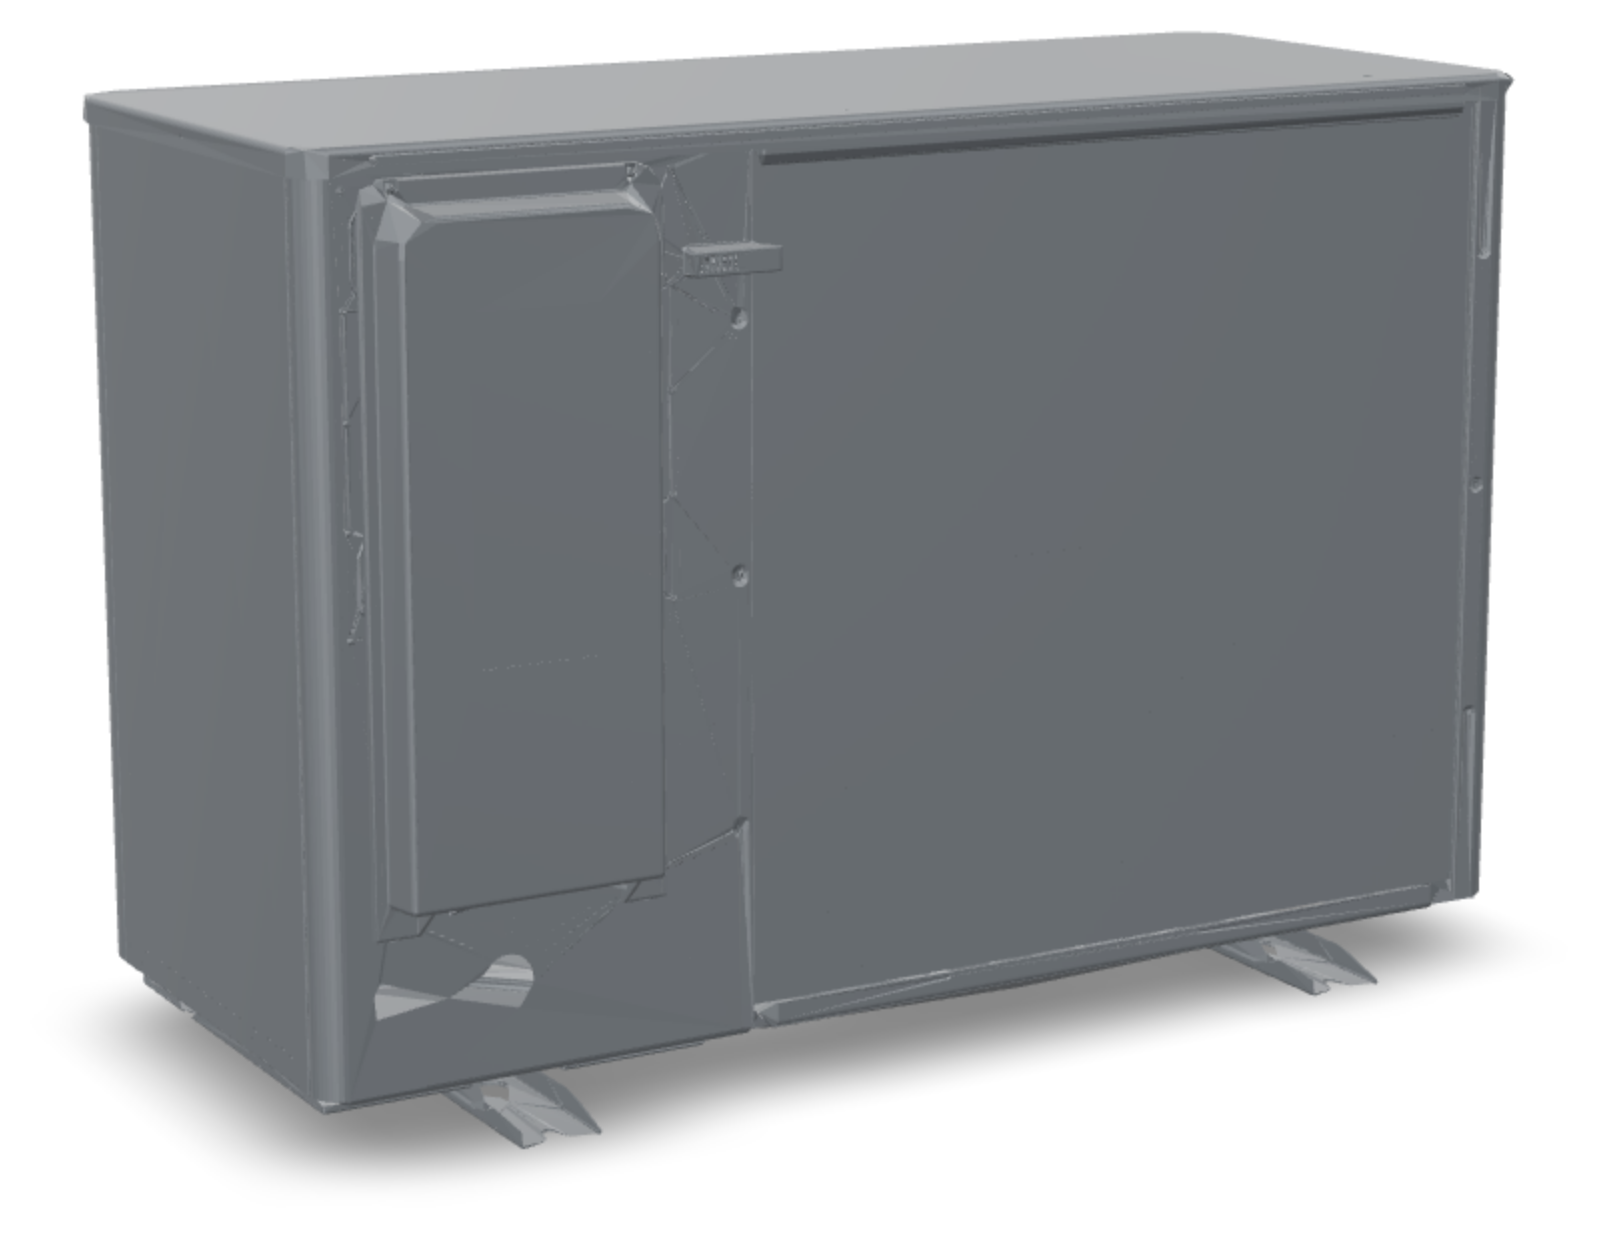
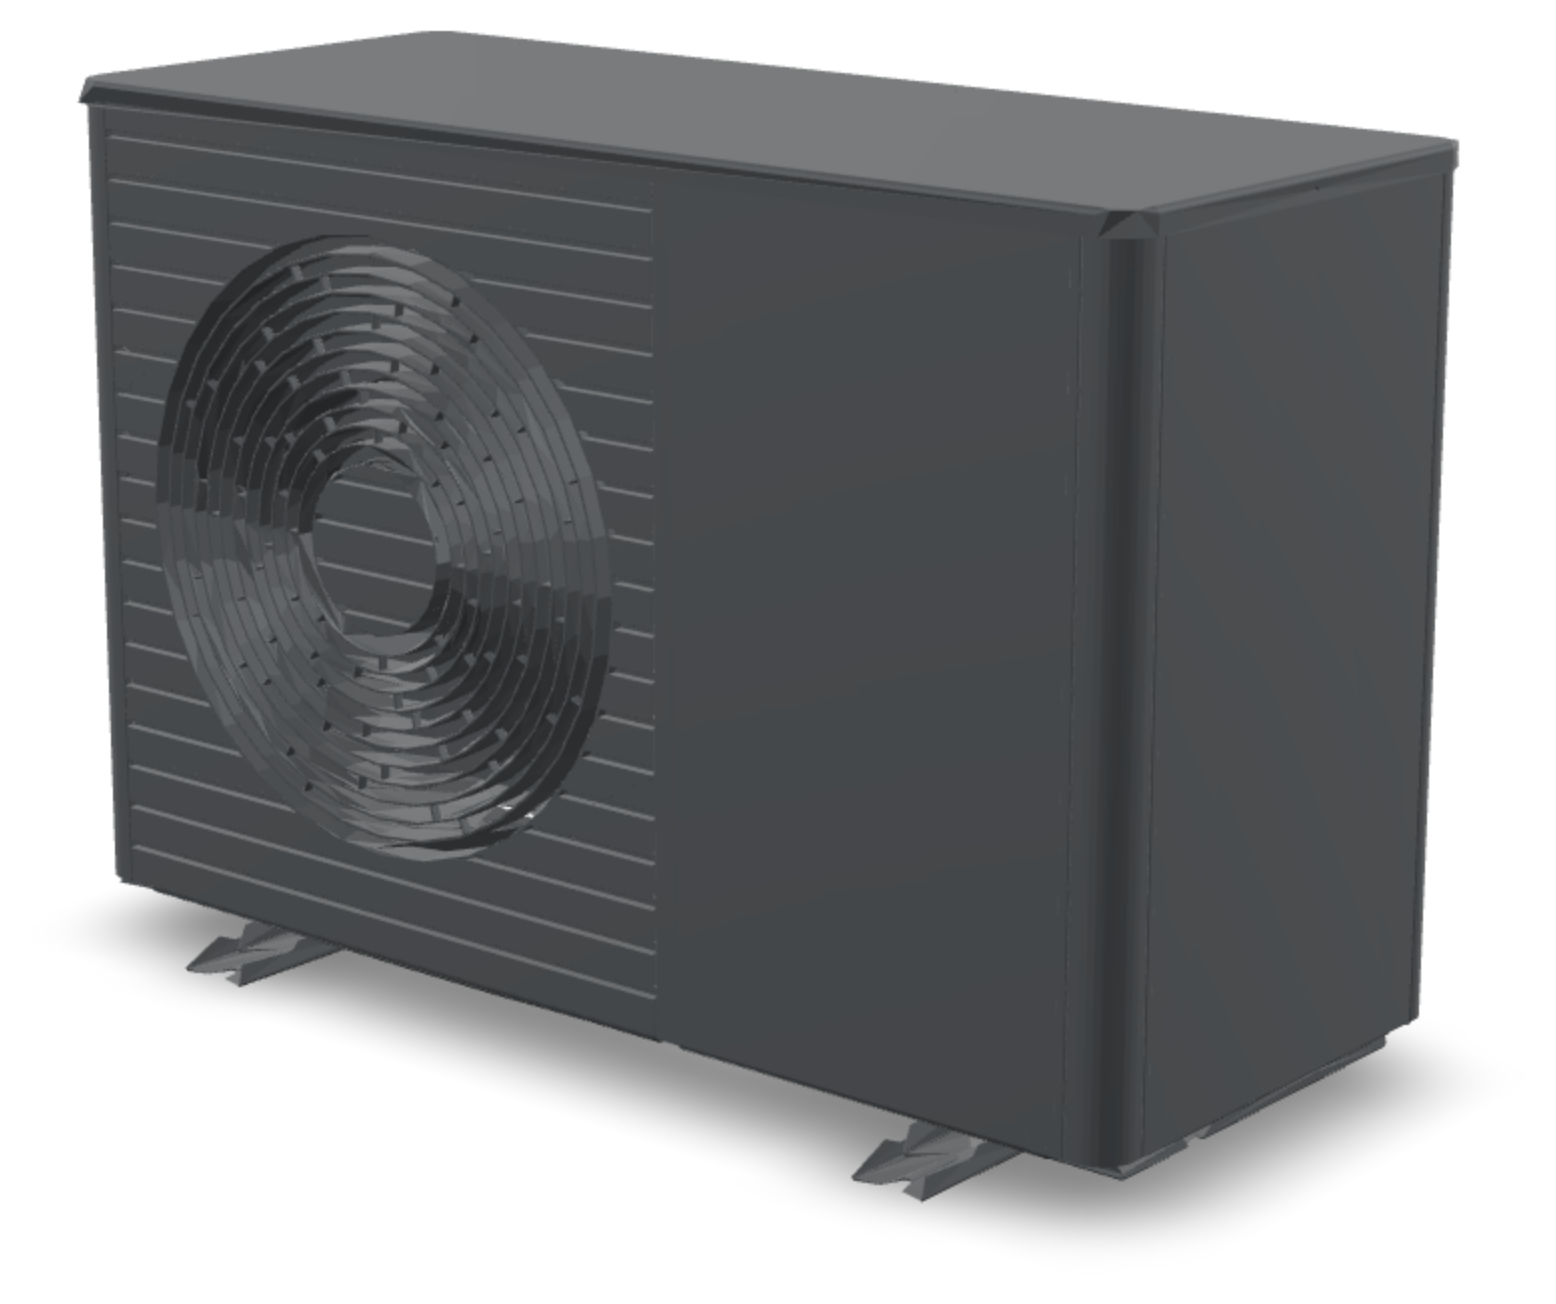
Fix product color/orientation, redesign AR placement flow
- Matched real Vaillant anthracite colouring (RAL 7021 reference) and
  re-rendered from the correct front-facing angle (grille visible),
  confirmed against an official product photo
- Removed two-finger rotate; pinch now only scales
- Replaced ambiguous tap-anywhere placement with an explicit reticle
  and "Place product here" button, plus yellow feature-point dots
  during the scanning phase (mimicking ARCore/ARKit point clouds)
- Object now drops onto a fixed floor line with a grow-then-settle
  animation, and can only be dragged horizontally afterward
- Floor mount is now the default mount option

diff --git a/app.js b/app.js
@@ -16,7 +16,7 @@ const products = [
     image: SHARED_IMAGE,
     model: SHARED_MODEL,
     hasNoise: true,
-    mounts: ["Wall mount", "Ground mount"],
+    mounts: ["Floor mount", "Wall mount"],
     variants: [
       { label: "3/5 kW", lwa: 55 },
       { label: "7 kW", lwa: 58 },
@@ -34,7 +34,7 @@ const products = [
     image: SHARED_IMAGE,
     model: SHARED_MODEL,
     hasNoise: true,
-    mounts: ["Wall mount", "Ground mount"],
+    mounts: ["Floor mount", "Wall mount"],
     variants: [
       { label: "6 kW", lwa: 57 },
       { label: "12 kW", lwa: 60 },
@@ -266,18 +266,22 @@ const scaleBadge = $("#scaleBadge");
 const mvViewer = $("#mvViewer");
 let mvModeActive = false;
 const dbReadout = $("#dbReadout");
+const scanDots = $("#scanDots");
+const arReticleWrap = $("#arReticleWrap");
+const placeDropBtn = $("#placeDropBtn");
 
 let mediaStream = null;
 let objectPlaced = false;
 let objX = 0;
-let objY = 0;
+let objY = 0; // fixed to the floor line once placed - the object never moves vertically
 let objScale = 1;
-let objRotation = 0;
 const BASE_DISTANCE_M = 2; // metres represented by scale = 1 (100%)
+const FLOOR_Y_RATIO = 0.64; // where the "floor" line sits, as a fraction of viewport height
 
 const pointers = new Map();
-let dragBaseline = null; // {startPointerX, startPointerY, startObjX, startObjY}
-let pinchBaseline = null; // {startDist, startAngle, startScale, startRotation}
+let dragBaseline = null; // {startPointerX, startObjX}
+let pinchBaseline = null; // {startDist, startScale}
+let scanTimer = null;
 
 let hintTimers = [];
 function clearHints() {
@@ -288,11 +292,7 @@ function clearHints() {
 
 function playGestureHints() {
   clearHints();
-  const sequence = [
-    "Drag your finger to move the object",
-    "Pinch to scale the product",
-    "Drag with two fingers to rotate the object"
-  ];
+  const sequence = ["Drag left or right to move it", "Pinch to scale the product"];
   let delay = 300;
   sequence.forEach((text, i) => {
     hintTimers.push(
@@ -309,7 +309,7 @@ function playGestureHints() {
 function applyObjectTransform() {
   arObject.style.left = `${objX}px`;
   arObject.style.top = `${objY}px`;
-  arObject.style.transform = `translate(-50%, -50%) scale(${objScale}) rotate(${objRotation}deg)`;
+  arObject.style.transform = `translate(-50%, -100%) scale(${objScale})`;
 }
 
 function currentDistanceM() {
@@ -340,6 +340,8 @@ function showScaleBadge() {
 }
 
 function resetGestureState() {
+  clearTimeout(scanTimer);
+  clearTimeout(dropObjectAtFloor._t);
   pointers.clear();
   dragBaseline = null;
   pinchBaseline = null;
@@ -347,74 +349,101 @@ function resetGestureState() {
   objX = 0;
   objY = 0;
   objScale = 1;
-  objRotation = 0;
-  arObject.classList.remove("placed");
+  arObject.classList.remove("placed", "dropping");
+  arReticleWrap.classList.remove("show");
+  placeDropBtn.classList.remove("show");
+  scanDots.innerHTML = "";
 }
 
-function clampObjectPosition() {
+function clampObjectX() {
   const rect = arViewport.getBoundingClientRect();
   const margin = 40; // keep at least this much of the object reachable/visible
   objX = Math.min(Math.max(objX, margin), Math.max(rect.width - margin, margin));
-  objY = Math.min(Math.max(objY, margin), Math.max(rect.height - margin, margin));
 }
 
-function placeObjectAt(x, y) {
-  objX = x;
-  objY = y;
-  objScale = 1;
-  objRotation = 0;
-  objectPlaced = true;
-  arObject.classList.add("placed");
+function spawnScanDots() {
+  scanDots.innerHTML = "";
+  const rect = arViewport.getBoundingClientRect();
+  const count = 22;
+  for (let i = 0; i < count; i++) {
+    const dot = document.createElement("span");
+    dot.className = "scan-dot";
+    dot.style.left = `${8 + Math.random() * 84}%`;
+    dot.style.top = `${18 + Math.random() * 64}%`;
+    dot.style.animationDelay = `${Math.random() * 1.8}s`;
+    scanDots.appendChild(dot);
+  }
+}
+
+function beginScanning() {
+  clearTimeout(scanTimer);
+  arScanHint.style.display = "flex";
+  arReticleWrap.classList.remove("show");
+  placeDropBtn.classList.remove("show");
+  spawnScanDots();
+  scanTimer = setTimeout(showReadyToPlace, 2200);
+}
+
+function showReadyToPlace() {
   arScanHint.style.display = "none";
-  applyObjectTransform();
-  playGestureHints();
-
-  // allow placing and immediately dragging in one continuous touch
-  dragBaseline = { start: { x, y }, objX, objY };
+  scanDots.innerHTML = "";
+  const rect = arViewport.getBoundingClientRect();
+  const floorY = rect.height * FLOOR_Y_RATIO;
+  arReticleWrap.style.top = `${floorY}px`;
+  arReticleWrap.classList.add("show");
+  placeDropBtn.classList.add("show");
 }
+
+function dropObjectAtFloor() {
+  const rect = arViewport.getBoundingClientRect();
+  arReticleWrap.classList.remove("show");
+  placeDropBtn.classList.remove("show");
+
+  objX = rect.width / 2;
+  objY = rect.height * FLOOR_Y_RATIO;
+  objScale = 2.1; // appear large first...
+  arObject.classList.remove("dropping");
+  arObject.classList.add("placed");
+  applyObjectTransform();
+
+  // ...then settle down to normal size, like showPOINT's placement animation
+  requestAnimationFrame(() => {
+    arObject.classList.add("dropping");
+    objScale = 1;
+    applyObjectTransform();
+  });
+
+  clearTimeout(dropObjectAtFloor._t);
+  dropObjectAtFloor._t = setTimeout(() => {
+    arObject.classList.remove("dropping");
+    objectPlaced = true;
+    dragBaseline = { startX: objX, objX };
+    playGestureHints();
+  }, 600);
+}
+
+placeDropBtn.addEventListener("click", dropObjectAtFloor);
 
 function pointDistance(a, b) {
   return Math.hypot(a.x - b.x, a.y - b.y);
 }
-function pointAngle(a, b) {
-  return (Math.atan2(b.y - a.y, b.x - a.x) * 180) / Math.PI;
-}
-
-// Safety net: on some browsers pointerdown-based placement can be swallowed
-// (e.g. iOS Safari text-selection/callout gestures). A plain click always
-// fires for a genuine tap, and placeObjectAt() is a no-op if already placed.
-arViewport.addEventListener("click", (e) => {
-  if (mvModeActive || objectPlaced) return;
-  if (e.target.closest("button, .ar-bottom, .ar-topbar, .db-readout")) return;
-  const rect = arViewport.getBoundingClientRect();
-  placeObjectAt(e.clientX - rect.left, e.clientY - rect.top);
-});
 
 arViewport.addEventListener("pointerdown", (e) => {
-  if (mvModeActive) return; // model-viewer owns gestures for real 3D models
+  if (mvModeActive || !objectPlaced) return; // placement is via the explicit button only
   if (e.target.closest("button, .ar-bottom, .ar-topbar, .db-readout")) return;
   arViewport.setPointerCapture(e.pointerId);
   const rect = arViewport.getBoundingClientRect();
   const point = { x: e.clientX - rect.left, y: e.clientY - rect.top };
-
-  if (!objectPlaced) {
-    placeObjectAt(point.x, point.y);
-    pointers.set(e.pointerId, point);
-    return;
-  }
-
   pointers.set(e.pointerId, point);
 
   if (pointers.size === 1) {
-    dragBaseline = { start: { ...point }, objX, objY };
+    dragBaseline = { startX: point.x, objX };
     pinchBaseline = null;
   } else if (pointers.size === 2) {
     const pts = Array.from(pointers.values());
     pinchBaseline = {
       dist: pointDistance(pts[0], pts[1]),
-      angle: pointAngle(pts[0], pts[1]),
-      scale: objScale,
-      rotation: objRotation
+      scale: objScale
     };
     dragBaseline = null;
   }
@@ -427,16 +456,13 @@ arViewport.addEventListener("pointermove", (e) => {
   pointers.set(e.pointerId, point);
 
   if (pointers.size === 1 && dragBaseline) {
-    objX = dragBaseline.objX + (point.x - dragBaseline.start.x);
-    objY = dragBaseline.objY + (point.y - dragBaseline.start.y);
-    clampObjectPosition();
+    objX = dragBaseline.objX + (point.x - dragBaseline.startX);
+    clampObjectX();
     applyObjectTransform();
   } else if (pointers.size === 2 && pinchBaseline) {
     const pts = Array.from(pointers.values());
     const dist = pointDistance(pts[0], pts[1]);
-    const angle = pointAngle(pts[0], pts[1]);
     objScale = Math.min(2.5, Math.max(0.4, pinchBaseline.scale * (dist / pinchBaseline.dist)));
-    objRotation = pinchBaseline.rotation + (angle - pinchBaseline.angle);
     applyObjectTransform();
     showScaleBadge();
     updateDbReadoutIfVisible();
@@ -447,7 +473,7 @@ function releasePointer(e) {
   pointers.delete(e.pointerId);
   if (pointers.size === 1) {
     const [remaining] = pointers.values();
-    dragBaseline = { start: { ...remaining }, objX, objY };
+    dragBaseline = { startX: remaining.x, objX };
     pinchBaseline = null;
   } else if (pointers.size === 0) {
     dragBaseline = null;
@@ -523,9 +549,9 @@ function enterFlatMode(product) {
   resetGestureState();
   arObjectImage.src = product.image;
   arObjectImage.alt = product.name;
-  arScanHint.style.display = "flex";
   clearHints();
   startCamera();
+  beginScanning();
 }
 
 function enterMvMode(product) {
@@ -681,9 +707,8 @@ $("#captureFab").addEventListener("click", () => {
     const h = w * (img.naturalHeight / img.naturalWidth || 1);
     ctx.save();
     ctx.translate(objX, objY);
-    ctx.rotate((objRotation * Math.PI) / 180);
     ctx.scale(objScale, objScale);
-    ctx.drawImage(img, -w / 2, -h / 2, w, h);
+    ctx.drawImage(img, -w / 2, -h, w, h);
     ctx.restore();
   }
 
@@ -709,8 +734,7 @@ function openMcsModal({ lwa, distance }) {
   $("#mcsDistance").value = distance;
   $("#mcsUnits").value = 1;
   $("#mcsThreshold").value = MCS020_DEFAULT_THRESHOLD;
-  const mountName = (state.activeProduct.mounts[state.activeMountIndex] || "").toLowerCase();
-  $("#mcsDirectivity").value = mountName.includes("ground") ? "4" : "2";
+  $("#mcsDirectivity").value = "2"; // free-standing default; user can switch to corner-mounted (Q=4)
   $("#mcsResult").classList.remove("show");
   mcsModal.classList.add("show");
 }

diff --git a/styles.css b/styles.css
@@ -482,13 +482,33 @@ h1, h2, h3, p {
   top: 50%;
   left: 50%;
   width: 46%;
-  transform: translate(-50%, -50%) scale(1) rotate(0deg);
-  transform-origin: center center;
+  transform: translate(-50%, -100%) scale(1);
+  transform-origin: 50% 100%;
   display: none;
   filter: drop-shadow(0 30px 26px rgba(0, 0, 0, 0.5));
 }
 .ar-object.placed { display: block; }
+.ar-object.dropping { transition: transform 550ms cubic-bezier(0.34, 1.56, 0.64, 1); }
 .ar-object img { width: 100%; pointer-events: none; }
+
+.scan-dots {
+  position: absolute;
+  inset: 0;
+  pointer-events: none;
+}
+.scan-dot {
+  position: absolute;
+  width: 6px;
+  height: 6px;
+  border-radius: 50%;
+  background: #ffd23f;
+  box-shadow: 0 0 6px 1px rgba(255, 210, 63, 0.7);
+  animation: dotTwinkle 1.8s ease-in-out infinite;
+}
+@keyframes dotTwinkle {
+  0%, 100% { opacity: 0; transform: scale(0.6); }
+  40%, 70% { opacity: 1; transform: scale(1); }
+}
 
 .ar-scan-hint {
   position: absolute;
@@ -523,6 +543,41 @@ h1, h2, h3, p {
 .ar-scan-hint p { font-weight: 600; }
 .ar-scan-hint .scan-subtext { font-weight: 500; font-size: 0.82rem; opacity: 0.85; margin-top: -8px; }
 
+.ar-reticle-wrap {
+  position: absolute;
+  top: 50%;
+  left: 50%;
+  transform: translate(-50%, -50%);
+  display: none;
+}
+.ar-reticle-wrap.show { display: block; }
+.ar-reticle {
+  display: block;
+  width: 84px;
+  height: 84px;
+  border: 3px solid #fff;
+  border-radius: 50%;
+  box-shadow: 0 0 0 4px rgba(0, 0, 0, 0.25);
+  animation: reticlePulse 1.6s ease-in-out infinite;
+}
+@keyframes reticlePulse {
+  0%, 100% { transform: scale(1); opacity: 0.95; }
+  50% { transform: scale(1.12); opacity: 0.6; }
+}
+
+.place-drop-btn {
+  position: absolute;
+  left: 50%;
+  bottom: 40px;
+  transform: translateX(-50%);
+  display: none;
+  align-items: center;
+  gap: 8px;
+  white-space: nowrap;
+  z-index: 4;
+}
+.place-drop-btn.show { display: flex; }
+
 .ar-gesture-hint {
   position: absolute;
   left: 50%;
@@ -556,6 +611,9 @@ h1, h2, h3, p {
 .ar-viewport.mv-mode #arCanvas,
 .ar-viewport.mv-mode #arObject,
 .ar-viewport.mv-mode #arScanHint,
+.ar-viewport.mv-mode #scanDots,
+.ar-viewport.mv-mode #arReticleWrap,
+.ar-viewport.mv-mode #placeDropBtn,
 .ar-viewport.mv-mode #arGestureHint {
   display: none !important;
 }

diff --git a/index.html b/index.html
@@ -118,13 +118,21 @@
           <div class="ar-object" id="arObject">
             <img id="arObjectImage" src="" alt="" draggable="false" />
           </div>
+          <div class="scan-dots" id="scanDots"></div>
           <div class="ar-scan-hint" id="arScanHint">
             <div class="scan-phone-track">
               <img class="scan-phone" src="assets/scan-phone.svg" alt="" />
             </div>
             <p>Move your smartphone to scan the surface</p>
-            <p class="scan-subtext">Then tap anywhere on the floor to place it</p>
           </div>
+
+          <div class="ar-reticle-wrap" id="arReticleWrap">
+            <span class="ar-reticle"></span>
+          </div>
+          <button class="cta-btn place-drop-btn" id="placeDropBtn">
+            <span class="cube-icon" data-icon="cube"></span> Place product here
+          </button>
+
           <div class="ar-gesture-hint" id="arGestureHint"></div>
 
           <model-viewer
